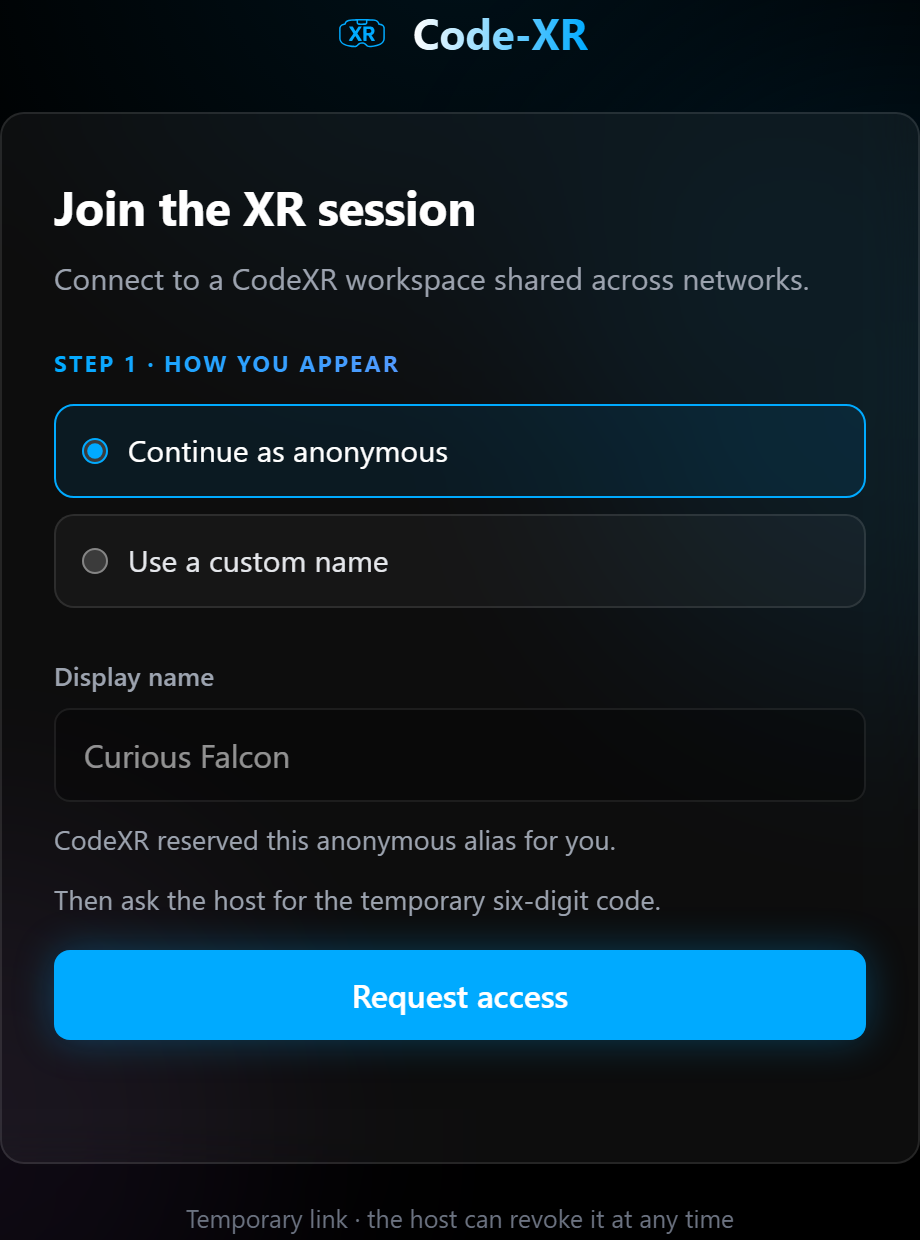
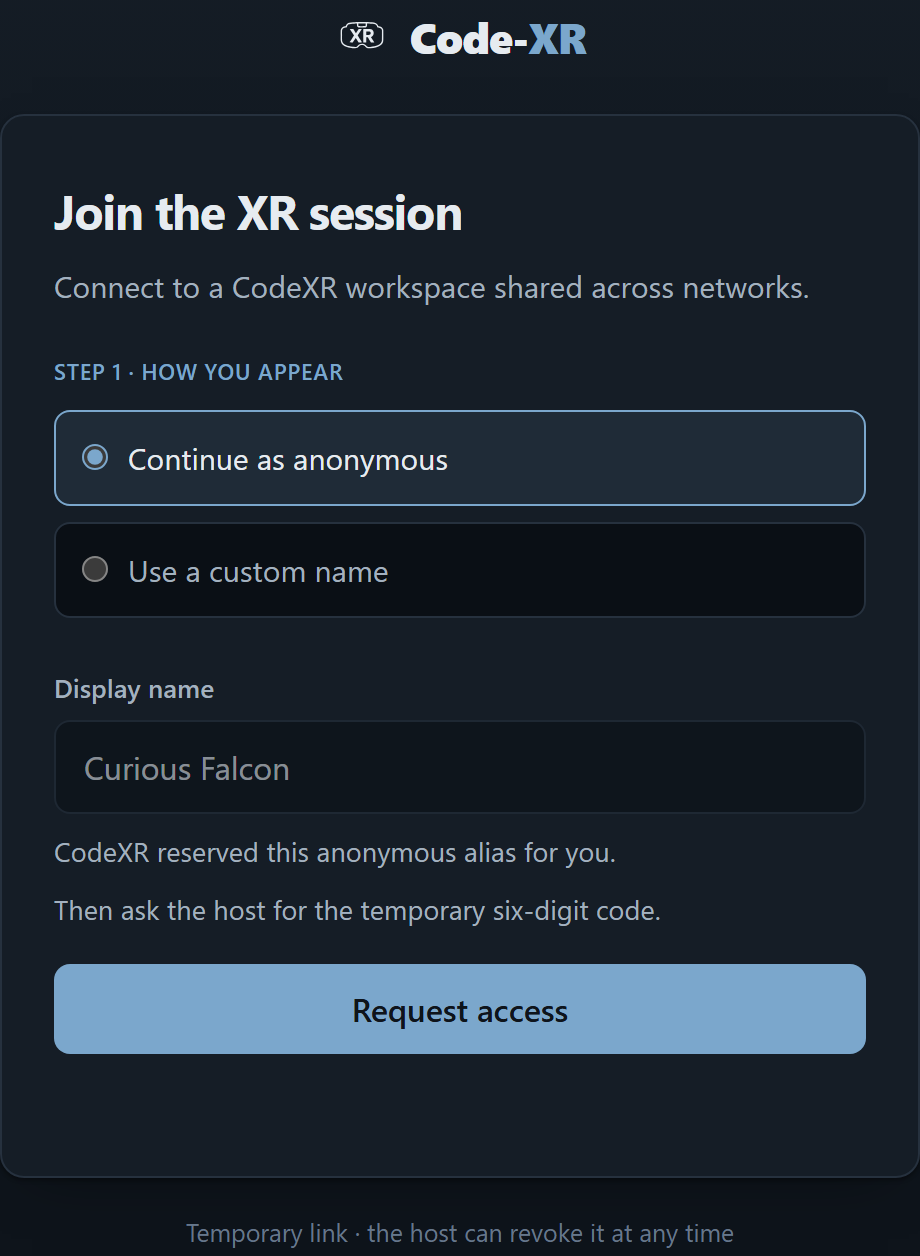
style(pairing): the guest join pages adopt the product site's design tokens
The screens a remote guest sees before entering a session still looked
like the pre-redesign site: pure black, neon cyan accent, glass card
with backdrop blur, two blurred colour orbs and gradient text. The
website now runs on flat slate surfaces, hairline edges, a muted
steel-blue accent that carries DARK text, and one soft card shadow.

The pairing and invitation pages now declare the same tokens under the
same names (surface, surface-raised, surface-sunken, ink, ink-muted,
ink-faint, edge, accent, accent-strong, on-accent) with the site's
values, so the two stay in step by inspection rather than by memory.
The orbs and the glow are gone, the card is a real raised surface, and
the wordmark splits Code- in ink from XR in accent, exactly as the
site's hero does. Everything about how joining works is untouched.

The four invited_user screenshots are retaken from the restyled page
with the same script, names and framing, so the README's cross-network
tutorial picks them up with no reference changes.

diff --git a/src/servers/runtime/remote/pairingPage.ts b/src/servers/runtime/remote/pairingPage.ts
@@ -12,51 +12,61 @@ import { CODEXR_BRAND_MARK_SVG } from './brandMark';
  * all fail. Keep every addition self-contained.
  */
 
+/**
+ * Design tokens mirrored from the product site (same names, same values), so
+ * the first CodeXR screen a guest ever sees belongs to the same family as the
+ * marketing pages: flat slate surfaces, a muted steel-blue accent carrying
+ * DARK text, hairline edges and a single soft card shadow. No glass, no neon
+ * glow, no gradient text — the previous look predates the site redesign.
+ */
 const PAGE_STYLES = `
+:root{
+  --surface:#0e141b;
+  --surface-raised:#151d26;
+  --surface-sunken:#0a0f15;
+  --ink:#e6ebf0;
+  --ink-muted:#a3b1bf;
+  --ink-faint:#66778a;
+  --edge:#26313e;
+  --accent:#7ba7cc;
+  --accent-strong:#9dbfda;
+  --on-accent:#0e141b;
+  --shadow-card:0 1px 2px rgb(0 0 0 / .4),0 10px 30px -16px rgb(0 0 0 / .5);
+}
 *{box-sizing:border-box}
 html,body{height:100%}
 body{
   margin:0;
-  background:#000;
-  color:#d1d5db;
-  font-family:Inter,Poppins,Roboto,system-ui,-apple-system,"Segoe UI",sans-serif;
+  /* The site's hero gradient: raised surface fading into the page surface. */
+  background:var(--surface) linear-gradient(var(--surface-raised),var(--surface) 60%) no-repeat;
+  color:var(--ink);
+  font-family:"Inter Variable",Inter,Poppins,Roboto,system-ui,-apple-system,"Segoe UI",sans-serif;
   font-size:16px;
-  line-height:1.55;
+  line-height:1.6;
   display:grid;
   place-items:center;
   padding:32px 16px;
   -webkit-font-smoothing:antialiased;
 }
-/* Ambient background, mirroring the site's hero: a soft blue halo at the top
-   and two heavily blurred colour orbs. */
-.glow-top,.orb{position:fixed;pointer-events:none;z-index:0}
-.glow-top{inset:0;background:radial-gradient(circle at 50% 0%,rgba(0,170,255,.10),transparent 38%)}
-.orb{border-radius:9999px;filter:blur(64px)}
-.orb-blue{right:-60px;top:80px;width:320px;height:320px;background:rgba(0,170,255,.10)}
-.orb-purple{left:-70px;bottom:-40px;width:288px;height:288px;background:rgba(192,132,252,.08)}
 
-main{position:relative;z-index:1;width:min(460px,100%)}
+main{position:relative;width:min(460px,100%)}
 .brand{display:flex;align-items:center;gap:10px;justify-content:center;margin-bottom:22px}
-.brand-mark{width:30px;height:30px;color:#00aaff;flex:none}
-.wordmark{
-  font-size:1.35rem;font-weight:700;letter-spacing:-.01em;
-  background:linear-gradient(to right,#fff,#00aaff);
-  -webkit-background-clip:text;background-clip:text;color:transparent;
-}
+.brand-mark{width:28px;height:28px;color:var(--ink);flex:none}
+/* "Code-" in ink, "XR" in accent: the site's wordmark, no gradient. */
+.wordmark{font-size:1.35rem;font-weight:800;letter-spacing:-.025em;color:var(--ink)}
+.wordmark .wordmark-accent{color:var(--accent)}
 .card{
-  background:rgba(255,255,255,.05);
-  border:1px solid rgba(255,255,255,.1);
-  backdrop-filter:blur(12px);
-  -webkit-backdrop-filter:blur(12px);
+  background:var(--surface-raised);
+  border:1px solid var(--edge);
   border-radius:12px;
   padding:28px 26px;
+  box-shadow:var(--shadow-card);
 }
-h1{margin:0 0 6px;font-size:1.5rem;font-weight:700;color:#fff;letter-spacing:-.01em}
-.lede{margin:0 0 22px;color:#9ca3af;font-size:.94rem}
+h1{margin:0 0 6px;font-size:1.5rem;font-weight:700;color:var(--ink);letter-spacing:-.025em}
+.lede{margin:0 0 22px;color:var(--ink-muted);font-size:.94rem}
 .section-label{
-  margin:0 0 10px;font-size:.72rem;font-weight:700;letter-spacing:.09em;text-transform:uppercase;
-  background:linear-gradient(to right,#00aaff,#c084fc);
-  -webkit-background-clip:text;background-clip:text;color:transparent;
+  margin:0 0 10px;font-size:.7rem;font-weight:600;letter-spacing:.025em;text-transform:uppercase;
+  color:var(--accent);
 }
 
 fieldset{border:0;padding:0;margin:0 0 16px}
@@ -64,65 +74,63 @@ legend{padding:0}
 .choice{
   display:flex;align-items:center;gap:10px;
   padding:11px 13px;margin-bottom:8px;cursor:pointer;
-  background:rgba(255,255,255,.04);
-  border:1px solid rgba(255,255,255,.1);
-  border-radius:10px;
-  color:#e5e7eb;font-size:.94rem;
-  transition:border-color .15s,background .15s;
+  background:var(--surface-sunken);
+  border:1px solid var(--edge);
+  border-radius:8px;
+  color:var(--ink-muted);font-size:.94rem;
+  transition:border-color .15s,background .15s,color .15s;
 }
-.choice:hover{border-color:rgba(0,170,255,.45)}
-.choice:has(input:checked){border-color:#00aaff;background:rgba(0,170,255,.09);color:#fff}
-.choice input{width:auto;margin:0;accent-color:#00aaff;flex:none}
+.choice:hover{border-color:var(--accent)}
+.choice:has(input:checked){border-color:var(--accent);background:rgb(123 167 204 / .1);color:var(--ink)}
+.choice input{width:auto;margin:0;accent-color:var(--accent);flex:none}
 
-label.field{display:block;margin:0 0 6px;font-size:.82rem;font-weight:600;color:#9ca3af}
+label.field{display:block;margin:0 0 6px;font-size:.82rem;font-weight:600;color:var(--ink-muted)}
 input[type=text],input:not([type]),#name,#code{
   width:100%;padding:12px 14px;
-  background:rgba(0,0,0,.45);
-  border:1px solid rgba(255,255,255,.14);
+  background:var(--surface-sunken);
+  border:1px solid var(--edge);
   border-radius:8px;
-  color:#fff;font-size:1rem;font-family:inherit;
+  color:var(--ink);font-size:1rem;font-family:inherit;
   transition:border-color .15s,box-shadow .15s;
 }
-input::placeholder{color:#6b7280}
-input:focus-visible{outline:none;border-color:#00aaff;box-shadow:0 0 0 3px rgba(0,170,255,.25)}
+input::placeholder{color:var(--ink-faint)}
+input:focus-visible{outline:none;border-color:var(--accent);box-shadow:0 0 0 3px rgb(123 167 204 / .25)}
 input:disabled{opacity:.55;cursor:not-allowed}
 #code{
   margin-top:4px;
   text-align:center;
   font-size:1.6rem;font-weight:700;
   letter-spacing:.42em;text-indent:.42em;
+  color:var(--ink);
   font-family:ui-monospace,SFMono-Regular,Menlo,Consolas,monospace;
 }
-.hint{margin:8px 0 0;color:#9ca3af;font-size:.85rem}
+.hint{margin:8px 0 0;color:var(--ink-muted);font-size:.85rem}
 
 button{
-  width:100%;margin-top:16px;padding:12px 24px;
-  background:#00aaff;color:#fff;
+  width:100%;min-height:44px;margin-top:16px;padding:12px 24px;
+  background:var(--accent);color:var(--on-accent);
   border:0;border-radius:8px;
   font-family:inherit;font-size:1rem;font-weight:600;
   cursor:pointer;
-  box-shadow:0 0 20px rgba(0,170,255,.3);
-  transition:background .15s,box-shadow .15s,transform .05s;
+  transition:background .15s,transform .05s;
 }
-button:hover:not(:disabled){background:#0096e0;box-shadow:0 0 26px rgba(0,170,255,.45)}
+button:hover:not(:disabled){background:var(--accent-strong)}
 button:active:not(:disabled){transform:translateY(1px)}
-button:focus-visible{outline:2px solid #67e8f9;outline-offset:2px}
-button:disabled{opacity:.5;box-shadow:none;cursor:not-allowed}
+button:focus-visible{outline:2px solid var(--accent-strong);outline-offset:2px}
+button:disabled{opacity:.45;cursor:not-allowed}
 
-#status{margin:16px 0 0;min-height:1.2em;font-size:.9rem;color:#9ca3af;text-align:center}
+#status{margin:16px 0 0;min-height:1.2em;font-size:.9rem;color:var(--ink-muted);text-align:center}
 #status.error{
-  color:#fca5a5;text-align:left;
-  background:rgba(248,113,113,.12);
-  border:1px solid rgba(248,113,113,.3);
+  color:#f0a9a9;text-align:left;
+  background:rgb(220 120 120 / .1);
+  border:1px solid rgb(220 120 120 / .3);
   border-radius:8px;padding:10px 12px;
 }
 #code,#confirm{display:none}
-.footnote{margin:18px 0 0;text-align:center;color:#6b7280;font-size:.78rem}
+.footnote{margin:18px 0 0;text-align:center;color:var(--ink-faint);font-size:.78rem}
 
 @media (max-width:480px){
   .card{padding:22px 18px}
-  .orb-blue{width:220px;height:220px}
-  .orb-purple{width:200px;height:200px}
   #code{font-size:1.35rem;letter-spacing:.3em;text-indent:.3em}
 }
 `;
@@ -138,11 +146,8 @@ function shell(title: string, body: string, script = ''): string {
 <style>${PAGE_STYLES}</style>
 </head>
 <body>
-<div class="glow-top"></div>
-<div class="orb orb-blue"></div>
-<div class="orb orb-purple"></div>
 <main>
-<div class="brand">${CODEXR_BRAND_MARK_SVG}<span class="wordmark">Code-XR</span></div>
+<div class="brand">${CODEXR_BRAND_MARK_SVG}<span class="wordmark">Code-<span class="wordmark-accent">XR</span></span></div>
 ${body}
 </main>
 ${script ? `<script>${script}</script>` : ''}

diff --git a/media/SHOTLIST.md b/media/SHOTLIST.md
@@ -159,14 +159,14 @@ XR, not just how it looks. JPEG ~1600 px, 115-152 KB each.
 
 The two sides of the joining flow, used by the README's cross-network tutorial. One folder per role, because every shot belongs to exactly one of them.
 
-**`invited_user/`** is what the person joining sees in their browser. Rendered from the **real production page** (`src/servers/runtime/remote/pairingPage.ts`, compiled and served as-is, so the HTML, CSS and client script are exactly what a guest gets) with only the three endpoints it calls stubbed: a faithful capture would otherwise need a live Cloudflare tunnel and a second machine. The alias and the code shown are therefore invented, and nothing else is. Captured at 640 px wide, `deviceScaleFactor: 2`, dark scheme.
+**`invited_user/`** is what the person joining sees in their browser. Rendered from the **real production page** (`src/servers/runtime/remote/pairingPage.ts`, compiled and served as-is, so the HTML, CSS and client script are exactly what a guest gets) with only the three endpoints it calls stubbed: a faithful capture would otherwise need a live Cloudflare tunnel and a second machine. The alias and the code shown are therefore invented, and nothing else is. Captured at 640 px wide, `deviceScaleFactor: 2`, dark scheme. Retaken after the page adopted the product site's design tokens (slate surfaces, steel-blue accent, no glass or neon glow), so **whenever that styling changes these four must be retaken together** with the script that produced them.
 
 | File | Size | What it shows |
 |---|---|---|
-| `remote-join-identity.png` | 169 KB | Step 1 of the join page: continue as anonymous with the alias CodeXR reserved, or use a custom name, then *Request access* |
-| `remote-join-code.png` | 112 KB | Step 2: the six-digit field and *Connect*, with "Request sent. Enter the code the host gives you." |
-| `remote-join-rejected.png` | 117 KB | A burnt code: the field is cleared and the page answers "The code is not valid." |
-| `remote-join-expired.png` | 70 KB | The page an expired or already-used invitation link lands on |
+| `remote-join-identity.png` | 82 KB | Step 1 of the join page: continue as anonymous with the alias CodeXR reserved, or use a custom name, then *Request access* |
+| `remote-join-code.png` | 54 KB | Step 2: the six-digit field and *Connect*, with "Request sent. Enter the code the host gives you." |
+| `remote-join-rejected.png` | 51 KB | A burnt code: the field is cleared and the page answers "The code is not valid." |
+| `remote-join-expired.png` | 38 KB | The page an expired or already-used invitation link lands on |
 
 **`host_user/`** is what the person sharing sees in VS Code. Taken by hand from a **live session** (Playwright drives web pages, not the VS Code window), which is why these are tight crops of the real sidebar and its notifications rather than framed shots.
 

diff --git a/CHANGELOG.md b/CHANGELOG.md
@@ -75,6 +75,7 @@ A guide screen lives inside the scene, so the answer to *what am I looking at* n
 
 #### Changed
 
+- **The guest join pages wear the product site's design.** The pairing and invitation screens now use the same tokens as the website (slate surfaces, hairline edges, the muted steel-blue accent carrying dark text, one soft card shadow) instead of the older black-and-neon look with glass blur and gradient text. Nothing about how joining works changed.
 - **The analysis controller switches between analyses.** The in-scene selector routes to each mode's own view and mapping context, so moving between the classic table, the dependency graph, a comparison and the movie keeps each one's state instead of resetting it. Leaving and returning to an analysis restores what you had.
 - **The table (pedestal) serves every analysis type**: the single chart, the comparator's dual table, the graph and the movie's full-size chart, each with its own containment so charts stay inside the useful area.
 - **The chart type can be changed live** from CodeXR Field Mapping, applying that chart's own default axes; a change that produces invalid geometry reverts itself with a message.
